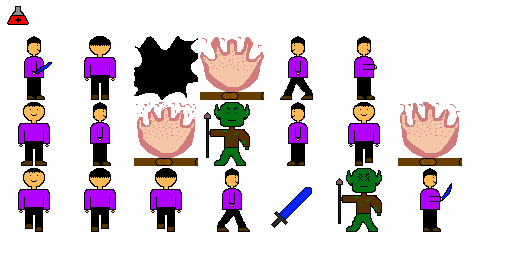
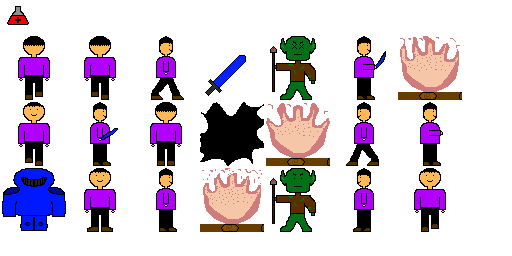
added a boss class and drew it

diff --git a/core/src/main/java/com/app/adventureone/Main.java b/core/src/main/java/com/app/adventureone/Main.java
@@ -24,6 +24,7 @@ public class Main extends ApplicationAdapter {
     private Sword sword;
     private Hole hole;
     private Fire fire;
+    private Boss boss;
     private float deltaTime;
     private ButtonHandler buttonHandler;
     private MyShapeRenderer shapeRenderer;
@@ -44,6 +45,7 @@ public class Main extends ApplicationAdapter {
         sword = new Sword(atlas, new Vector2(224, 256),32, new Rectangle(224, 256, 32, 32), 2);
         player = new Player(atlas, new Vector2(0,0), 32, new Rectangle(0, 0, 32, 32), goblin, 100, 25, sword, hole, mapHandler, potion);
         fire = new Fire(atlas, new Vector2(256, 256), new Rectangle(256, 256, 32, 32), 32);
+        boss = new Boss(atlas, new Vector2(100, 224), 32, new Rectangle(100, 224, 32, 32), 100, 25);
         buttonHandler = new ButtonHandler(player);
         shapeRenderer = new MyShapeRenderer(player);
     }
@@ -73,6 +75,8 @@ public class Main extends ApplicationAdapter {
             hole.draw(batch);
             fire.draw(batch);
             fire.render(deltaTime);
+        } else if (mapHandler.currentLevel == MapHandler.Level.BASEMENT) {
+            boss.draw(batch);
         }
         player.draw(batch);
         batch.end();
@@ -88,6 +92,7 @@ public class Main extends ApplicationAdapter {
             renderer.rect(potion.position.x, potion.position.y, potion.size, potion.size);
             renderer.rect(hole.position.x, hole.position.y, hole.size, hole.size);
             renderer.rect(fire.position.x, fire.position.y, fire.size, fire.size);
+            renderer.rect(boss.position.x, boss.position.y, boss.size, boss.size);
             renderer.end();
             shapeRenderer.render();
         }

diff --git a/core/src/main/java/com/app/adventureone/Player.java b/core/src/main/java/com/app/adventureone/Player.java
@@ -180,15 +180,17 @@ public class Player extends Entity {
                 }
                 attackTurn = 'g';
             } else {
-                hp -= goblin.strength;
-                System.out.println("goblin did: " + goblin.strength + " damage. player hp remaining: " + hp);
 
-                if (hp <= 10) {
+                if (hp <= 90) {
                     if (inventory.contains("Potion")) {
                         hp += 20;
+                        System.out.println("Player drank potion. Player's hp is now: " + hp);
                         inventory.remove("Potion");
                     }
                 }
+
+                hp -= goblin.strength;
+                System.out.println("goblin did: " + goblin.strength + " damage. player hp remaining: " + hp);
 
                 if (hp <= 0) {
                     System.out.println("player died");

diff --git a/core/src/main/java/com/app/adventureone/Boss.java b/core/src/main/java/com/app/adventureone/Boss.java
@@ -1,0 +1,18 @@
+package com.app.adventureone;
+
+import com.badlogic.gdx.graphics.g2d.SpriteBatch;
+import com.badlogic.gdx.graphics.g2d.TextureAtlas;
+import com.badlogic.gdx.math.Rectangle;
+import com.badlogic.gdx.math.Vector2;
+
+public class Boss extends Entity {
+
+    public Boss(TextureAtlas atlas, Vector2 position, int size, Rectangle rect, int hp, int strength) {
+        super(atlas, "boss", position, size, rect, hp, strength);
+    }
+
+    public void draw(SpriteBatch batch) {
+        sprite.setPosition(position.x, position.y);
+        sprite.draw(batch);
+    }
+}
